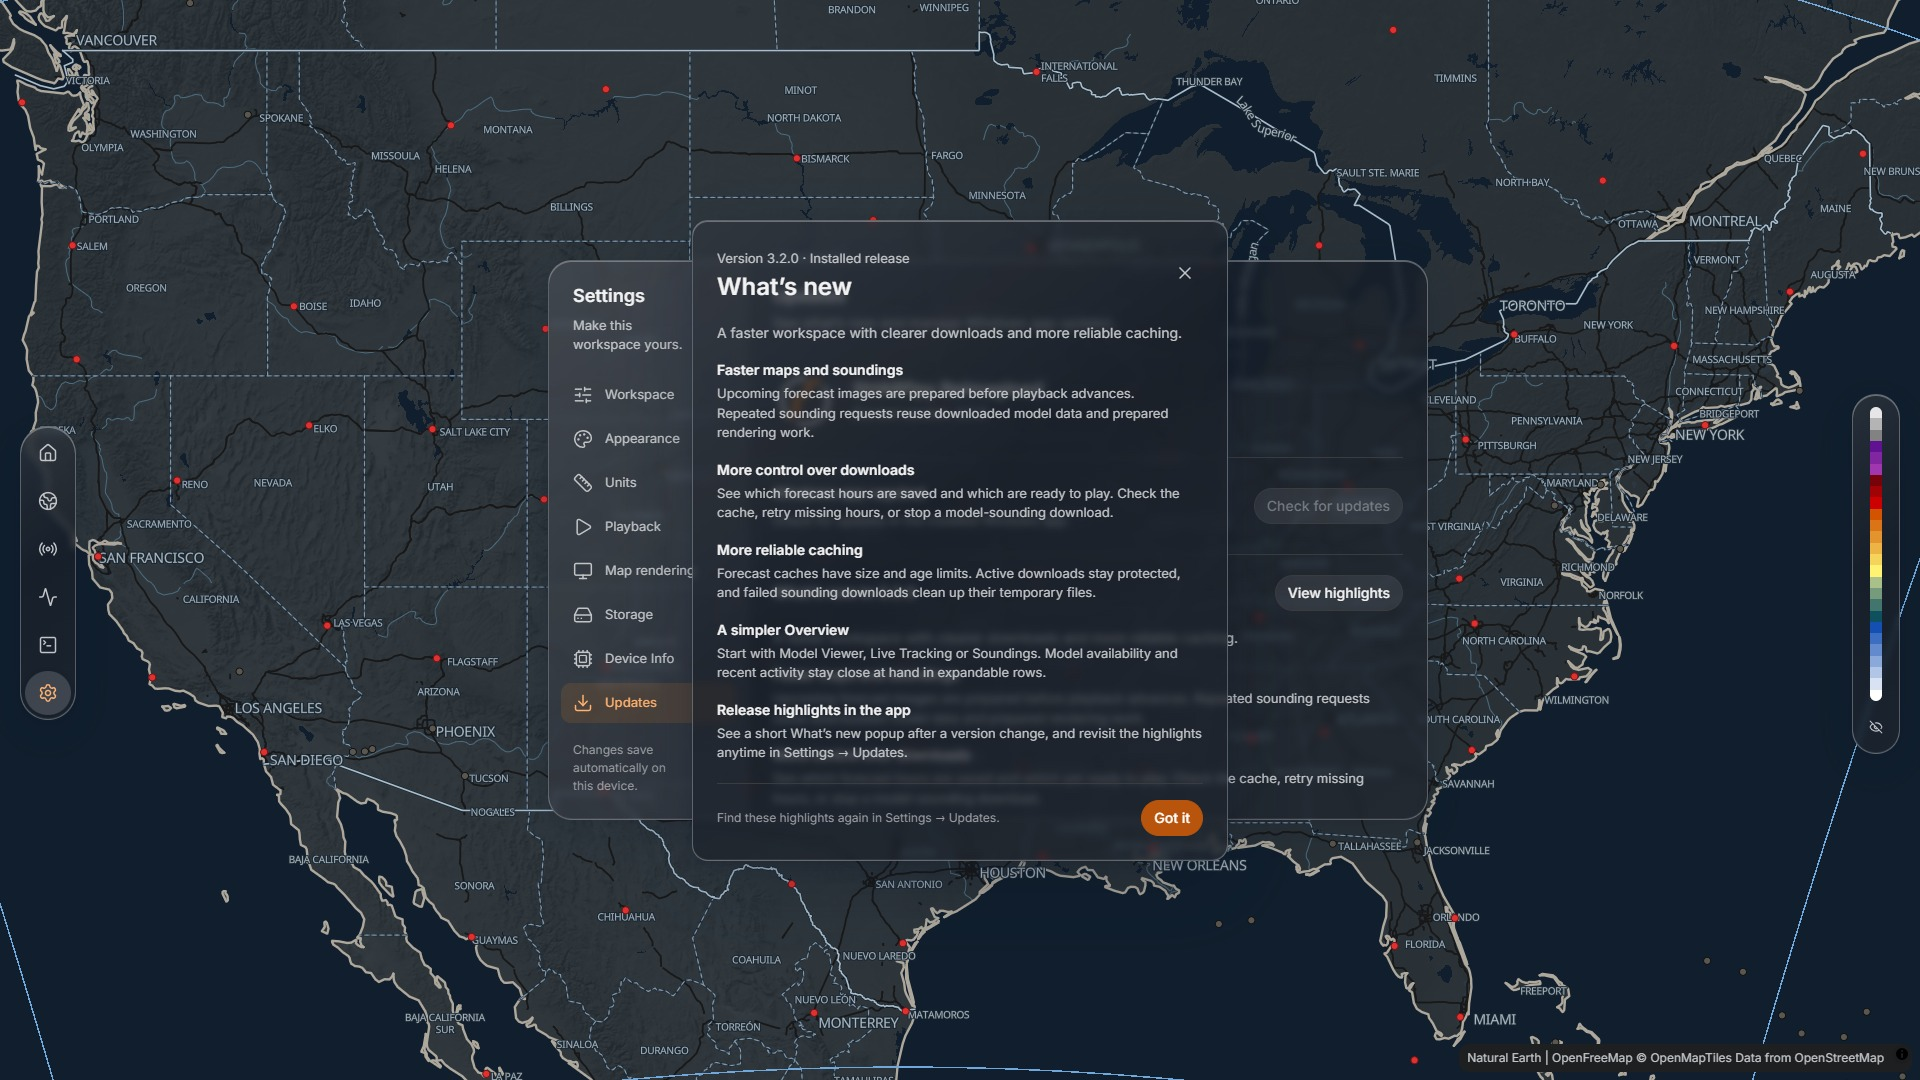
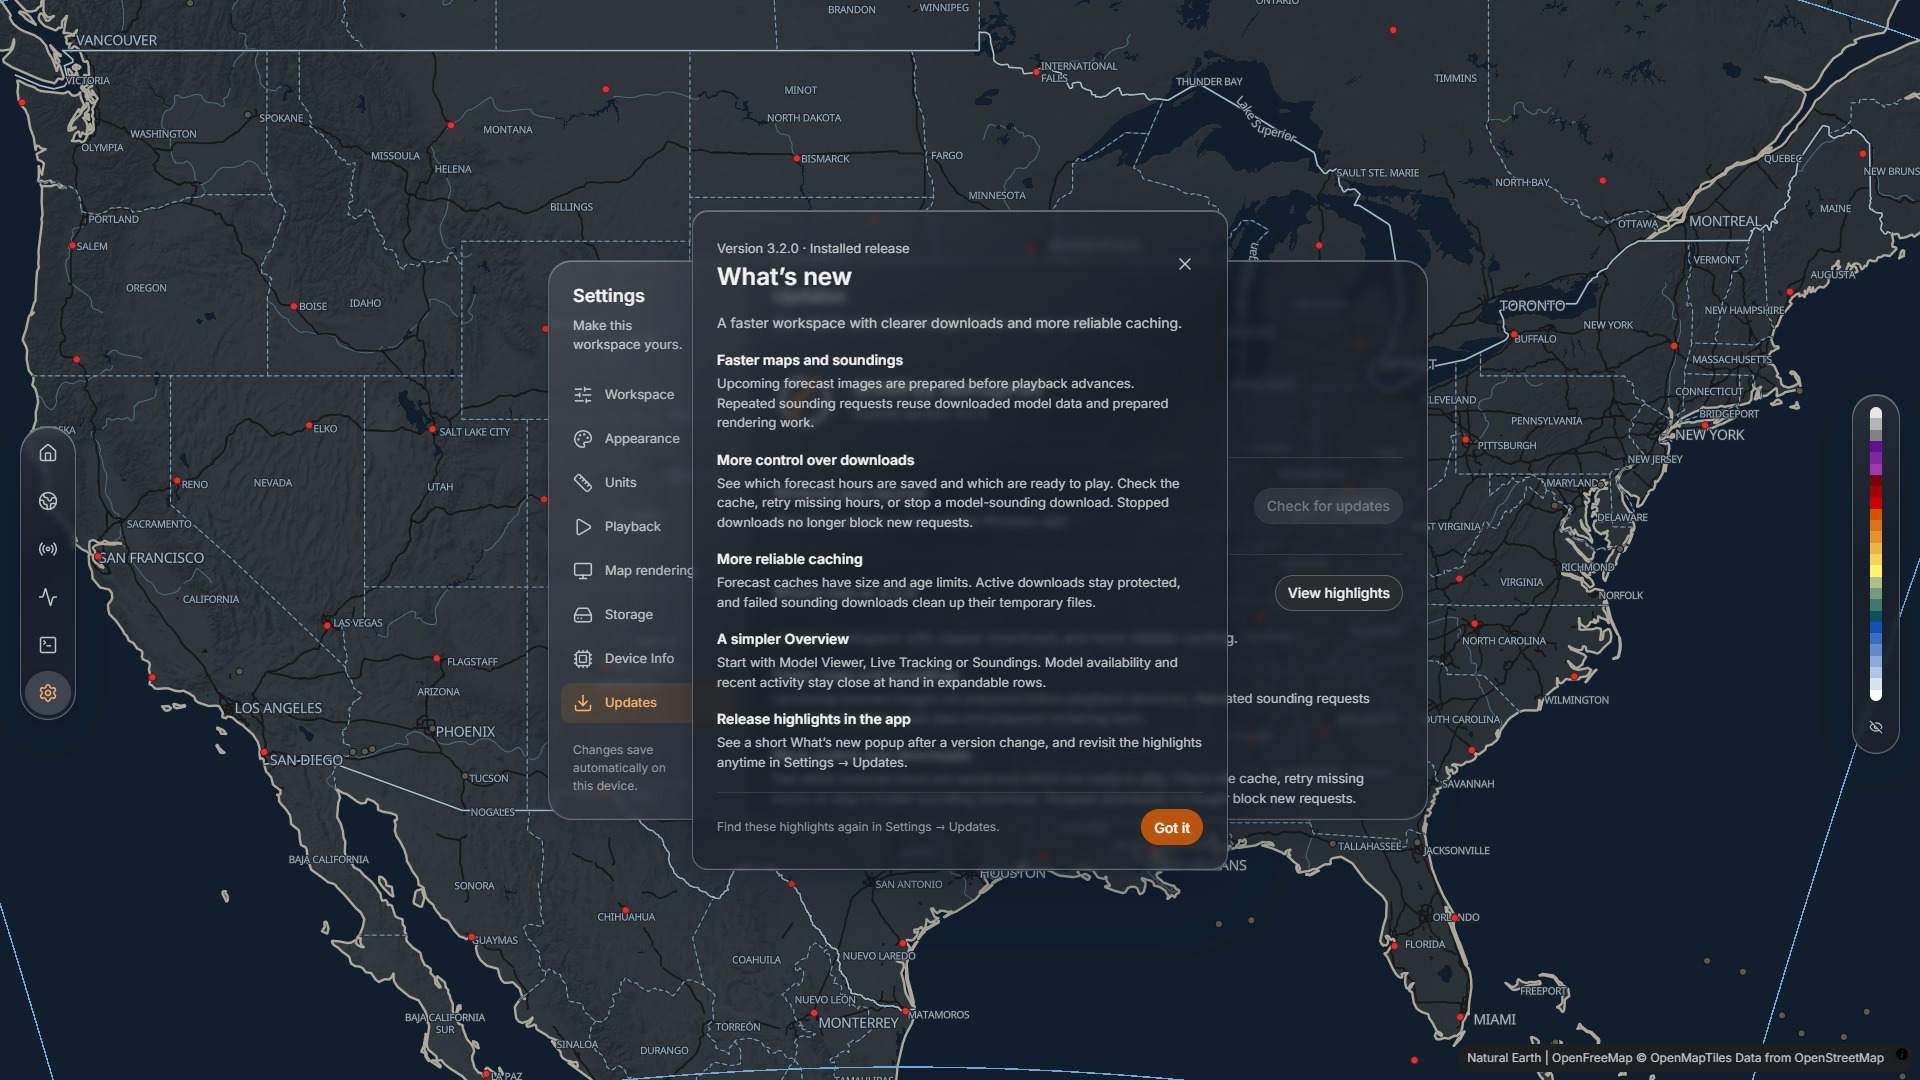
Release cancelled queued bridge requests immediately

diff --git a/sharpmod/tests/test_bridge_cancellation.py b/sharpmod/tests/test_bridge_cancellation.py
@@ -12,6 +12,48 @@ from sharpmod.bridge.protocol import encode_frame
 from sharpmod.tests.test_bridge_protocol import Feed, Sink
 
 
+@pytest.mark.parametrize("control", ["wire", "token", "early-token"])
+def test_cancelled_queue_releases_admission_before_running_work_finishes(monkeypatch, control):
+    started, finish = Event(), Event()
+    queued_calls = []
+    def busy(_params):
+        started.set()
+        assert finish.wait(5)
+        return {"ok": True}
+    def queued(_params):
+        queued_calls.append(1)
+        return {"ok": True}
+    monkeypatch.setitem(handlers.HANDLERS, "test.busy", busy)
+    monkeypatch.setitem(handlers.HANDLERS, "test.queued", queued)
+    monkeypatch.setitem(handlers.HANDLERS, "test.fresh", lambda _params: {"fresh": True})
+    monkeypatch.setattr(server, "WORKERS", 1)
+    monkeypatch.setattr(server, "MAX_ADMITTED", 2)
+    sink = Sink()
+    bridge = server._Server(io.BytesIO(), sink)
+    def send(request_id, method, params):
+        bridge._dispatch(encode_frame({"id": request_id, "method": method, "params": params}))
+    try:
+        send(1, "test.busy", {"request_id": "running"})
+        assert started.wait(5)
+        if control == "early-token":
+            send(3, "cancel", {"request_id": "queued"})
+        send(2, "test.queued", {"request_id": "queued"})
+        if control != "early-token":
+            send(3, "cancel", {"id": 2} if control == "wire" else {"request_id": "queued"})
+        send(4, "test.fresh", {})
+        replies = {frame["id"]: frame for frame in sink.frames()}
+        assert 4 not in replies, "cancelled queued work still blocks new admission"
+        assert replies[2]["error"]["details"]["cancelled"]
+        assert replies[3]["result"]["ok"]
+    finally:
+        finish.set()
+        bridge._pool.shutdown(wait=True)
+    replies = {frame["id"]: frame for frame in sink.frames()}
+    assert replies[4]["result"] == {"fresh": True}
+    assert queued_calls == []
+    assert not bridge._requests and not bridge._futures and not cancellation._ACTIVE
+
+
 def test_full_queue_keeps_cancel_progress_and_hello_responsive(monkeypatch):
     started = Event()
     def busy(_params):

diff --git a/sharpmod/bridge/server.py b/sharpmod/bridge/server.py
@@ -82,6 +82,7 @@ class _Server:
         self._lock = threading.Lock()
         self._admission = threading.BoundedSemaphore(MAX_ADMITTED)
         self._requests = {}
+        self._futures = {}
         self._pool = ThreadPoolExecutor(
             max_workers=WORKERS, thread_name_prefix="bridge"
         )
@@ -158,6 +159,10 @@ class _Server:
             else:
                 # request_id belongs to the target, not this control frame.
                 self._control(request, lambda: cancellation.cancel({"request_id": request_id}))
+            # shortcut: scan at most MAX_ADMITTED futures; index by token if this bound grows.
+            for event, future in list(self._futures.items()):
+                if event.is_set():
+                    future.cancel()
             return None
         if request.method in ("hello", "soundings.progress"):
             # The liveness ping is answered on the read loop, so a pool busy with
@@ -175,11 +180,17 @@ class _Server:
             return None
         self._requests[request.id] = event
         future = self._pool.submit(self._run_owned, request, event)
+        self._futures[event] = future
         def finished(_future):
             self._requests.pop(request.id, None)
+            self._futures.pop(event, None)
             cancellation.release(request_id)
             self._admission.release()
+            if _future.cancelled():
+                self._reply_error(request.id, cancellation.Cancelled())
         future.add_done_callback(finished)
+        if event.is_set():
+            future.cancel()
         return None
 
     def _control(self, request, handler):

diff --git a/CHANGELOG.md b/CHANGELOG.md
@@ -11,6 +11,9 @@ and the project uses [Semantic Versioning](https://semver.org/spec/v2.0.0.html).
 
 ### Fixed
 
+- Release a cancelled request's queued worker slot immediately, including
+  cancellation received before submission. Keep running downloads cooperative
+  and send one cancellation reply without waiting for busy workers to finish.
 - Retry temporary sounding calculation failures on later renders instead of
   retaining failed diagnostics in the prepared input cache.
 - Select above-ground pressure levels separately for each point's fallback

diff --git a/docs/images/v3.2.0/README.md b/docs/images/v3.2.0/README.md
@@ -1,6 +1,6 @@
 # v3.2.0 interface captures
 
-Captured on 19 October 2026 between 11:26 and 11:29 UTC from the live browser preview at
+Captured on 19 October 2026 from the live browser preview at
 `http://127.0.0.1:5178/`, using the v3.2.0 source and real Python/Rust backend.
 All ten images are original 1920 × 1080 JPEG viewport screenshots in the app's
 dark appearance. Captures wait for map initialization and displayed data;
